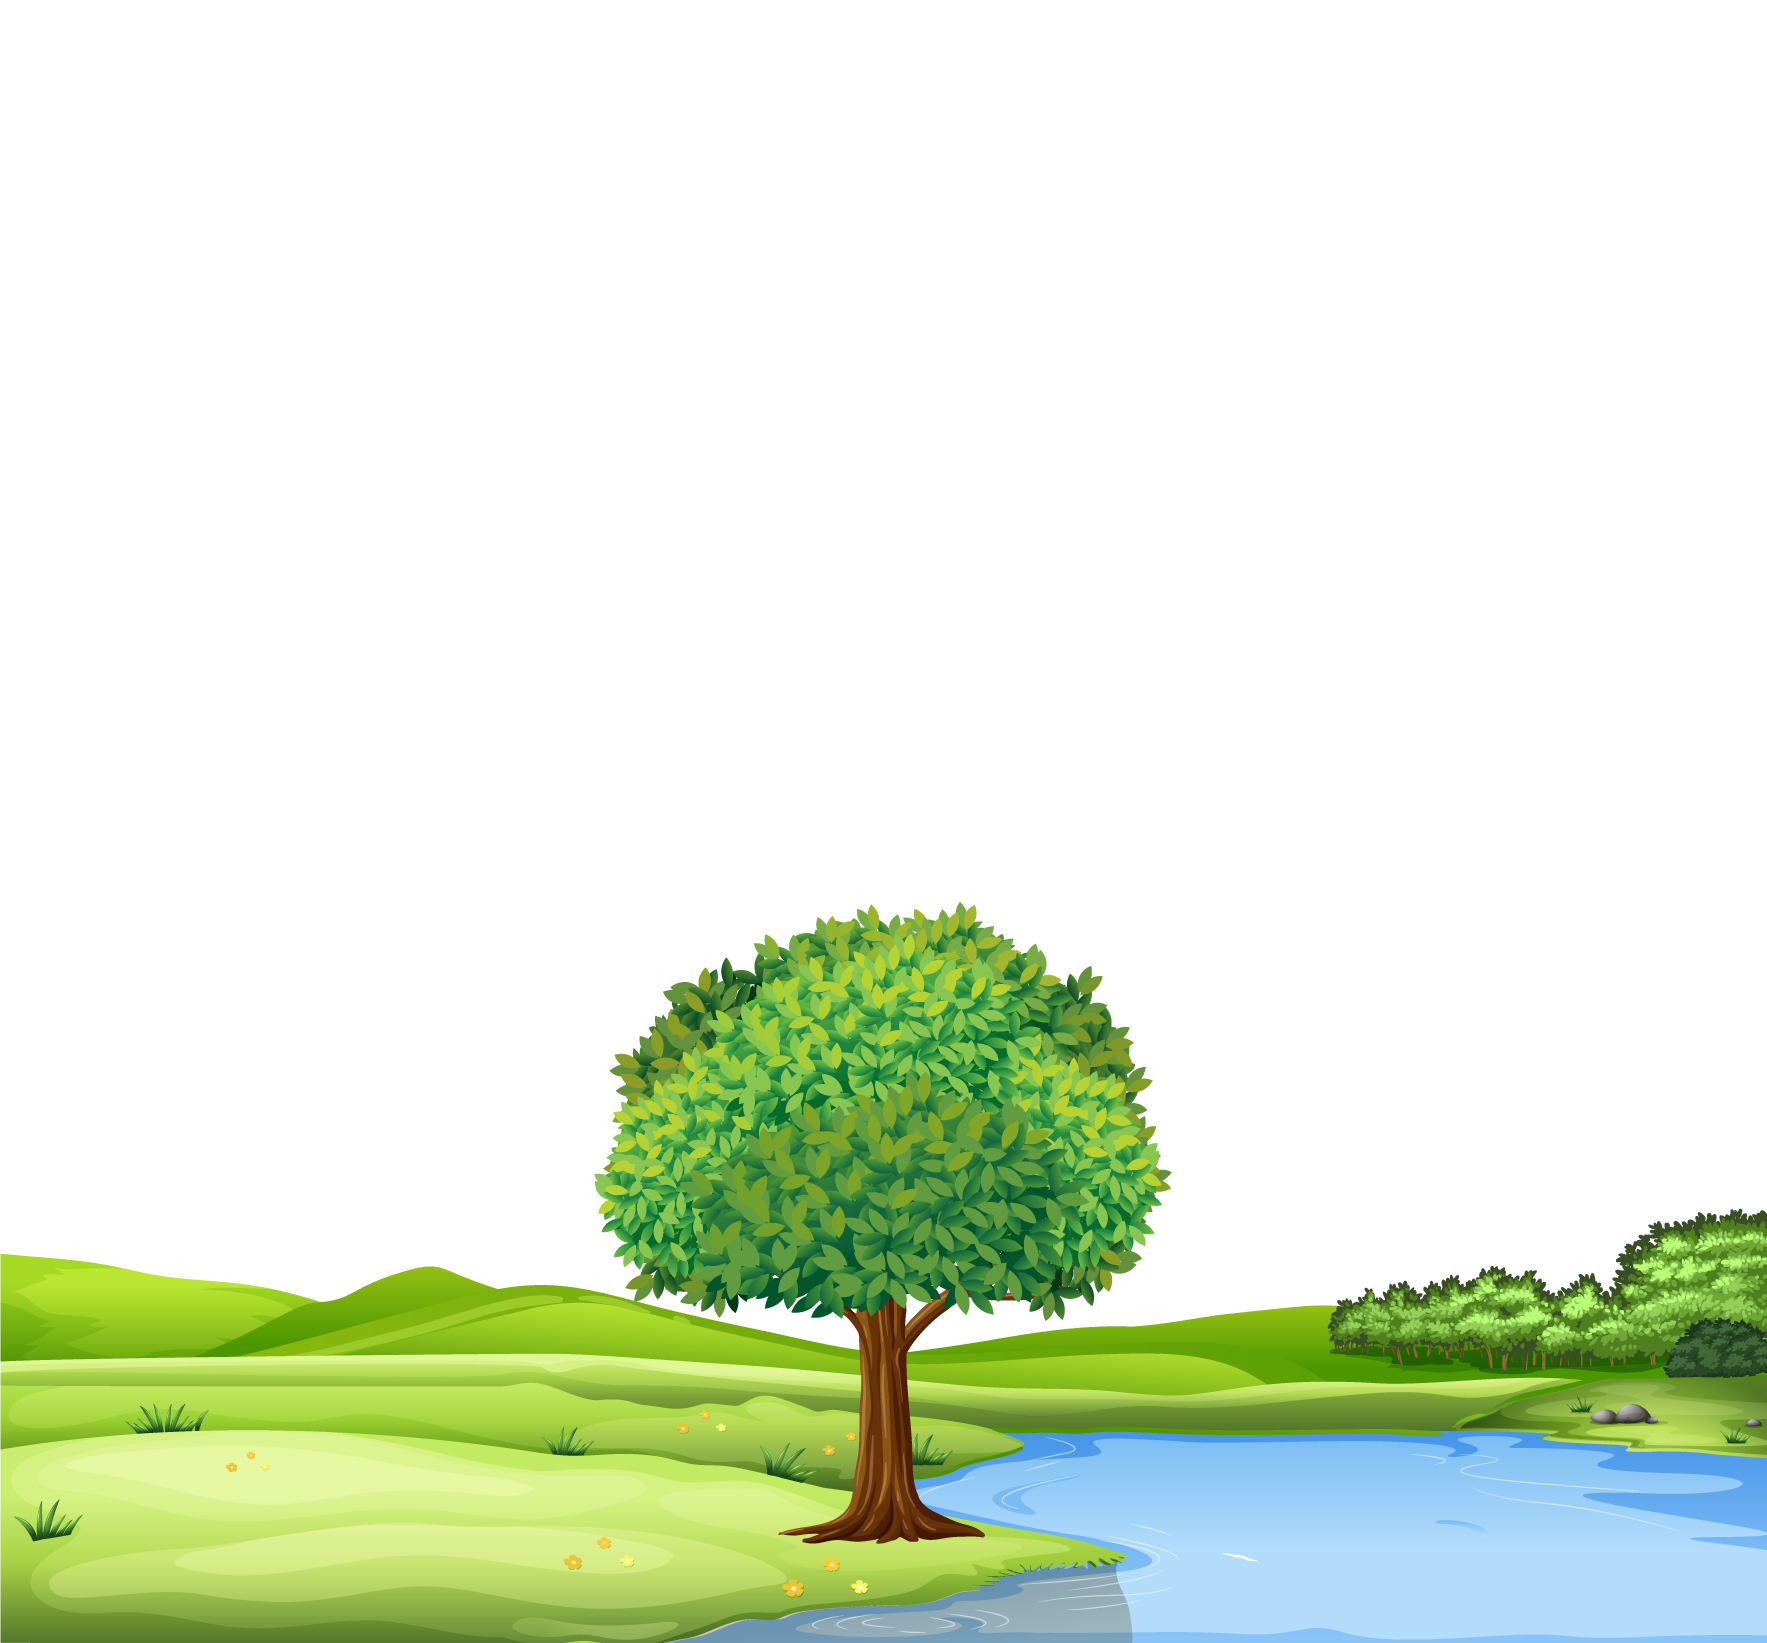
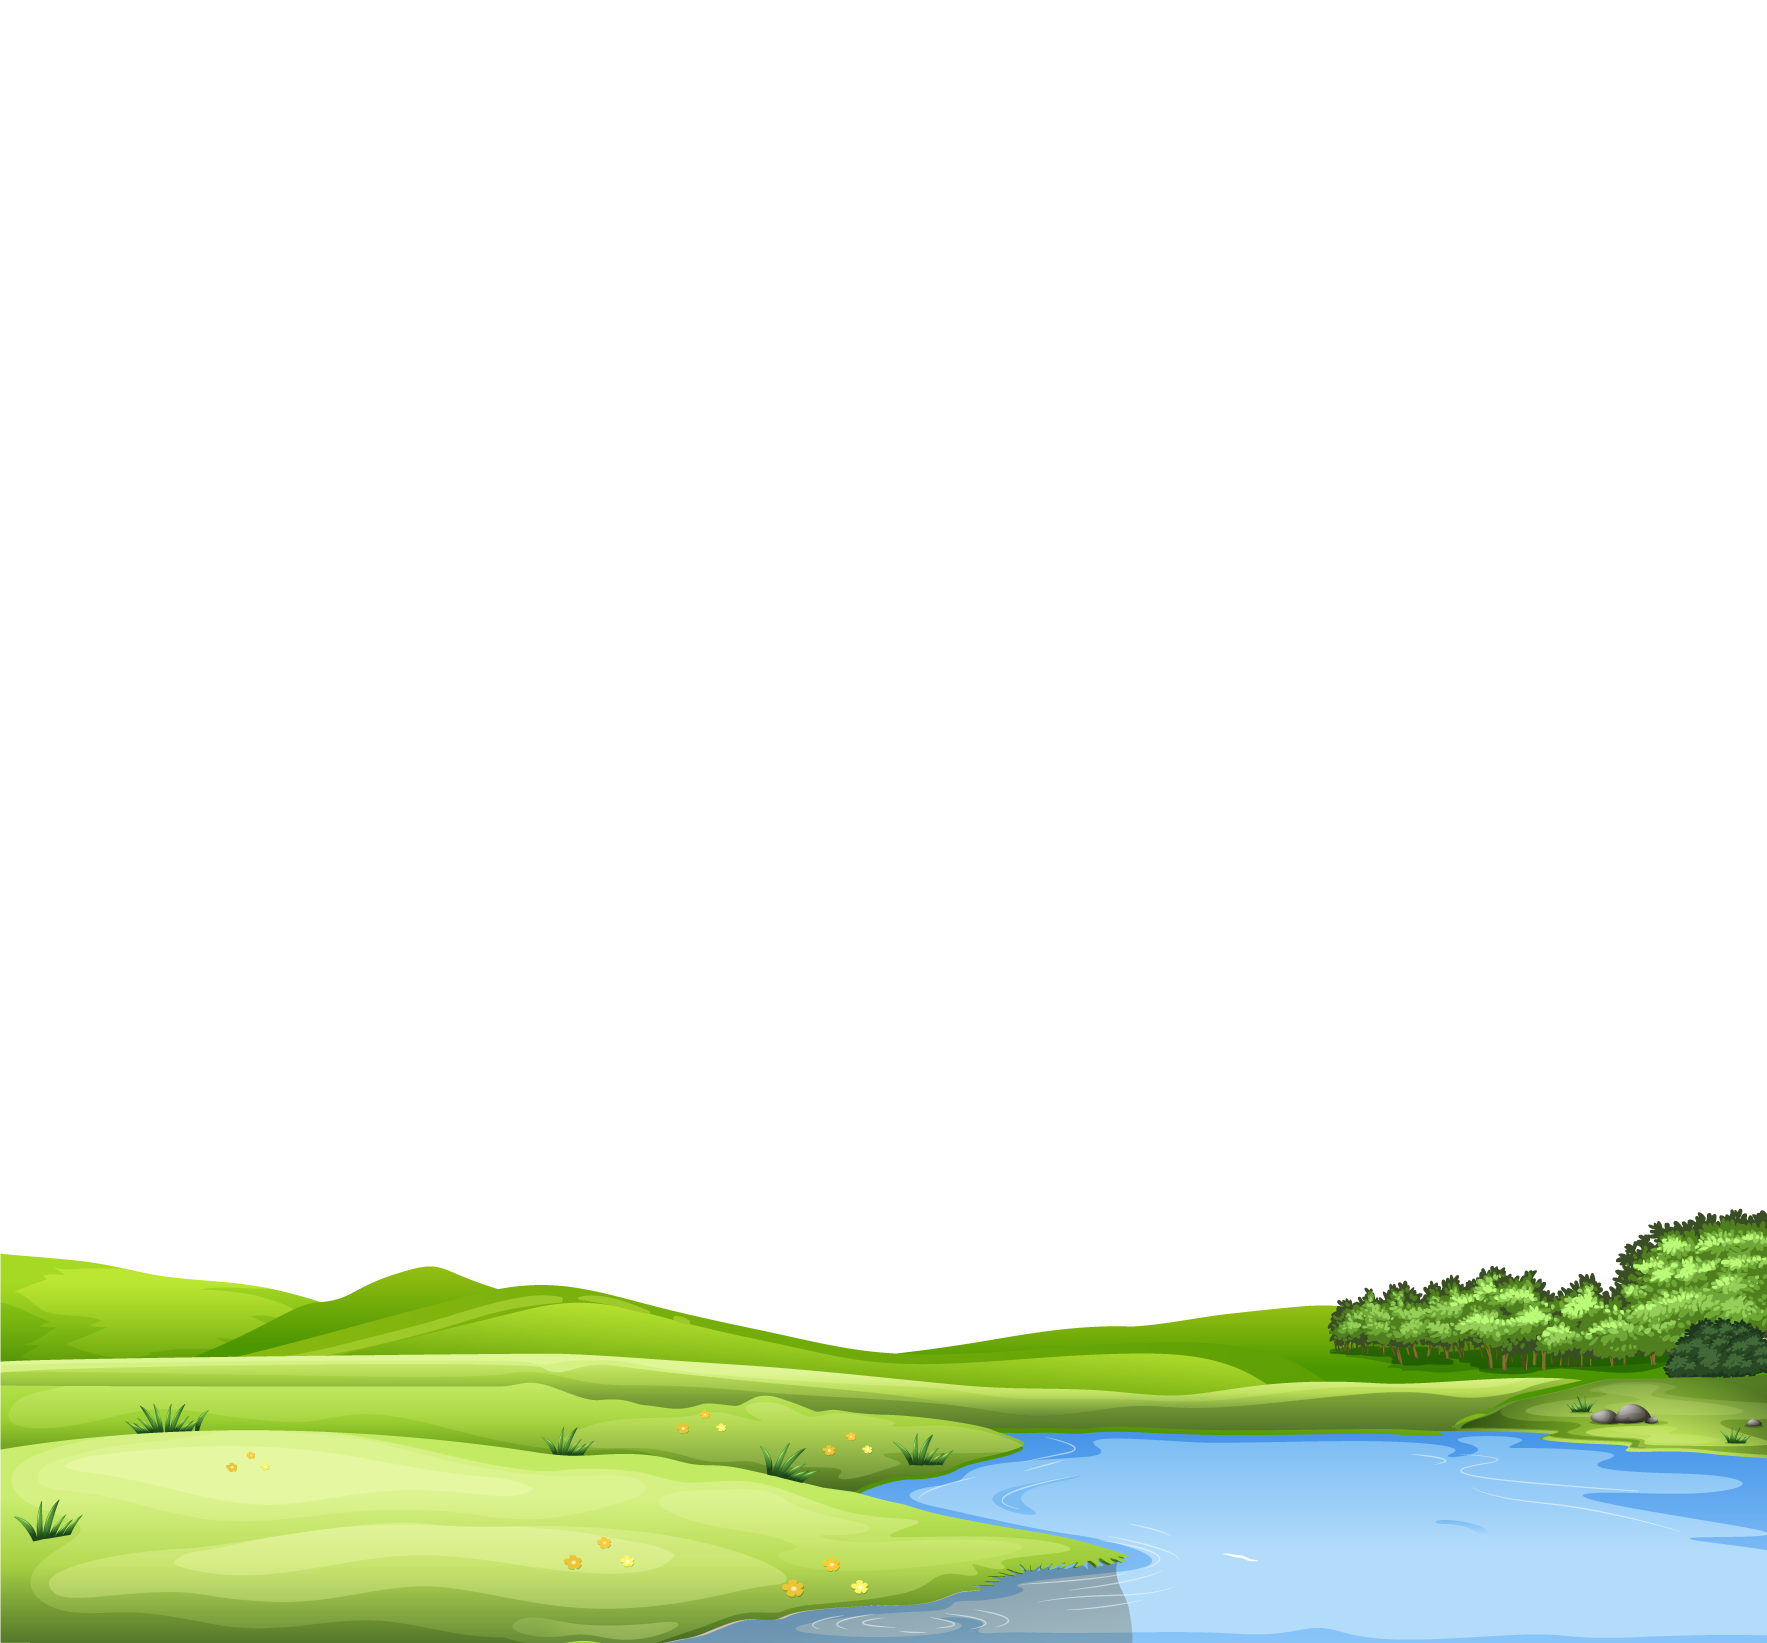
Started Autumn change

Changed region(s): [[0.3424, 0.5277, 0.6848, 0.9623]]

diff --git a/webpages/index.html b/webpages/index.html
@@ -18,11 +18,19 @@
             <div class="" data-1300="top:35%" data-0="top:-45%" style="z-index: -1; position: absolute; margin-left: auto; margin-right: auto; left: 0; right: 0; text-align: center;"> <img src="./img/BGSummer/BGSummerSky.png"></div>
             <div class="" data-1300="top:-10%" data-0="top:-45%" style="position: absolute; margin-left: auto; margin-right: auto; left: 0; right: 0; text-align: center;"> <img src="./img/BGSummer/BGSummerClouds.png"></div>
             <div class="" data-1300="top:0%" data-0="top:00%" style="position: absolute; margin-left: auto; margin-right: auto; left: 0; right: 0; text-align: center;"> <img src="./img/BGSummer/BGSummerMountainTop.png"></div>
-            <div class="" data-1300="top:0%" data-0="top:10%" style="position: absolute; margin-left: auto; margin-right: auto; left: 0; right: 0; text-align: center;"> <img src="./img/BGSummer/BGSummerMountainBottom.png"></div>
-            <div class="" data-1300="top:0%" data-0="top:20%" style="position: absolute; margin-left: auto; margin-right: auto; left: 0; right: 0; text-align: center;"> <img src="./img/BGSummer/BGSummerTreeTop.png"></div>
-            <div class="" data-1300="top:0%" data-0="top:30%" style="position: absolute; margin-left: auto; margin-right: auto; left: 0; right: 0; text-align: center;"> <img src="./img/BGSummer/BGSummerTreeBottom.png"></div>
-            <div class="" data-1300="top:0%" data-0="top:40%" style="position: absolute; margin-left: auto; margin-right: auto; left: 0; right: 0; text-align: center;"> <img src="./img/BGSummer/BGSummerPlainTop.png"></div>
-            <div class="" data-1300="top:0%" data-0="top:50%" style="z-index: 1; position: absolute; margin-left: auto; margin-right: auto; left: 0; right: 0; text-align: center;"> <img src="./img/BGSummer/BGSummerPlainBottom.png"></div>
+            <div class="" data-1400="opacity: 0;" data-1300="opacity: 1; top:0%" data-0="top:10%" style="position: absolute; margin-left: auto; margin-right: auto; left: 0; right: 0; text-align: center;"> <img src="./img/BGSummer/BGSummerMountainBottom.png"></div>
+            <div class="" data-1400="opacity: 0;" data-1300="opacity: 1; top:0%" data-0="top:20%" style="position: absolute; margin-left: auto; margin-right: auto; left: 0; right: 0; text-align: center;"> <img src="./img/BGSummer/BGSummerTreeTop.png"></div>
+            <div class="" data-1400="opacity: 0;" data-1300="opacity: 1; top:0%" data-0="top:30%" style="position: absolute; margin-left: auto; margin-right: auto; left: 0; right: 0; text-align: center;"> <img src="./img/BGSummer/BGSummerTreeBottom.png"></div>
+            <div class="" data-1400="opacity: 0;" data-1300="opacity: 1; top:0%" data-0="top:40%" style="position: absolute; margin-left: auto; margin-right: auto; left: 0; right: 0; text-align: center;"> <img src="./img/BGSummer/BGSummerPlainTop.png"></div>
+            <div class="" data-1400="opacity: 0;" data-1300="opacity: 1; top:0%" data-0="top:50%" style="z-index: 1; position: absolute; margin-left: auto; margin-right: auto; left: 0; right: 0; text-align: center;"> <img src="./img/BGSummer/BGSummerPlainBottom.png"></div>
+            <div class="" data-1400="opacity: 0;" data-1300="opacity: 1; top:0%" data-0="top:50%" style="z-index: 1; position: absolute; margin-left: auto; margin-right: auto; left: 0; right: 0; text-align: center;"> <img src="./img/BGSummer/BGSummerTree.png"></div>
+            <!--This is the autumn change-->
+            <div class="" data-1400="opacity: 1;" data-1300="opacity: 0; top:0%" data-0="opacity: 0;" style="position: absolute; margin-left: auto; margin-right: auto; left: 0; right: 0; text-align: center;"> <img src="./img/BGFall/BGFallMountainBottom.png"></div>
+            <div class="" data-1400="opacity: 1;" data-1300="opacity: 0; top:0%" data-0="opacity: 0;" style="position: absolute; margin-left: auto; margin-right: auto; left: 0; right: 0; text-align: center;"> <img src="./img/BGFall/BGFallTreeTop.png"></div>
+            <div class="" data-1400="opacity: 1;" data-1300="opacity: 0; top:0%" data-0="opacity: 0;" style="position: absolute; margin-left: auto; margin-right: auto; left: 0; right: 0; text-align: center;"> <img src="./img/BGFall/BGFallTreeBottom.png"></div>
+            <div class="" data-1400="opacity: 1;" data-1300="opacity: 0; top:0%" data-0="opacity: 0;" style="position: absolute; margin-left: auto; margin-right: auto; left: 0; right: 0; text-align: center;"> <img src="./img/BGFall/BGFallPlainTop.png"></div>
+            <div class="" data-1400="opacity: 1;" data-1300="opacity: 0; top:0%" data-0="opacity: 0;" style="z-index: 1; position: absolute; margin-left: auto; margin-right: auto; left: 0; right: 0; text-align: center;"> <img src="./img/BGFall/BGFallPlainBottom.png"></div>
+            <div class="" data-1400="opacity: 1;" data-1300="opacity: 0; top:0%" data-0="opacity: 0;" style="z-index: 1; position: absolute; margin-left: auto; margin-right: auto; left: 0; right: 0; text-align: center;"> <img src="./img/BGFall/BGFallTree.png"></div>
         </div>
     </div>
     <div id="scene2-buffer">

diff --git a/webpages/canvas.js b/webpages/canvas.js
@@ -9,9 +9,9 @@ var canvasPyro = document.getElementById('canvasPyro');
 var cP = canvasPyro.getContext('2d');
 
 var ScrollDistance = 0;
-var CanvasInUse = canvasLeaves;
-var CanvasContextInUse = cL;
-var IsLoaded = 0;
+var CanvasInUse = canvasFireFlies;
+var CanvasContextInUse = cF;
+var IsLoaded = 1;
 
 CanvasInUse.width = window.innerWidth;
 CanvasInUse.height = window.innerHeight;
@@ -20,12 +20,24 @@ this.window.addEventListener('scroll', function () {
     console.log("Scroll = " + window.scrollY);
     //Second of Seven places that require input for new canvas section
     ScrollDistance = window.scrollY;
-    if (ScrollDistance < 2000) {
+    if (ScrollDistance <= 1300) {
+        if (IsLoaded != 1) {
+            CanvasContextInUse.clearRect(0, 0, innerWidth, innerHeight);
+            IsLoaded = 1;
+            CanvasInUse = canvasFireFlies;
+            CanvasContextInUse = cF;
+            CanvasInUse.width = window.innerWidth;
+            CanvasInUse.height = window.innerHeight;
+            init();
+        }
+    } else if (ScrollDistance < 2000 && ScrollDistance > 1300) {
         if (IsLoaded != 0) {
             CanvasContextInUse.clearRect(0, 0, innerWidth, innerHeight);
             IsLoaded = 0;
             CanvasInUse = canvasLeaves;
             CanvasContextInUse = cL;
+            CanvasInUse.width = window.innerWidth;
+            CanvasInUse.height = window.innerHeight;
             init();
         }
     } else if (ScrollDistance < 4200 && ScrollDistance > 2000) {
